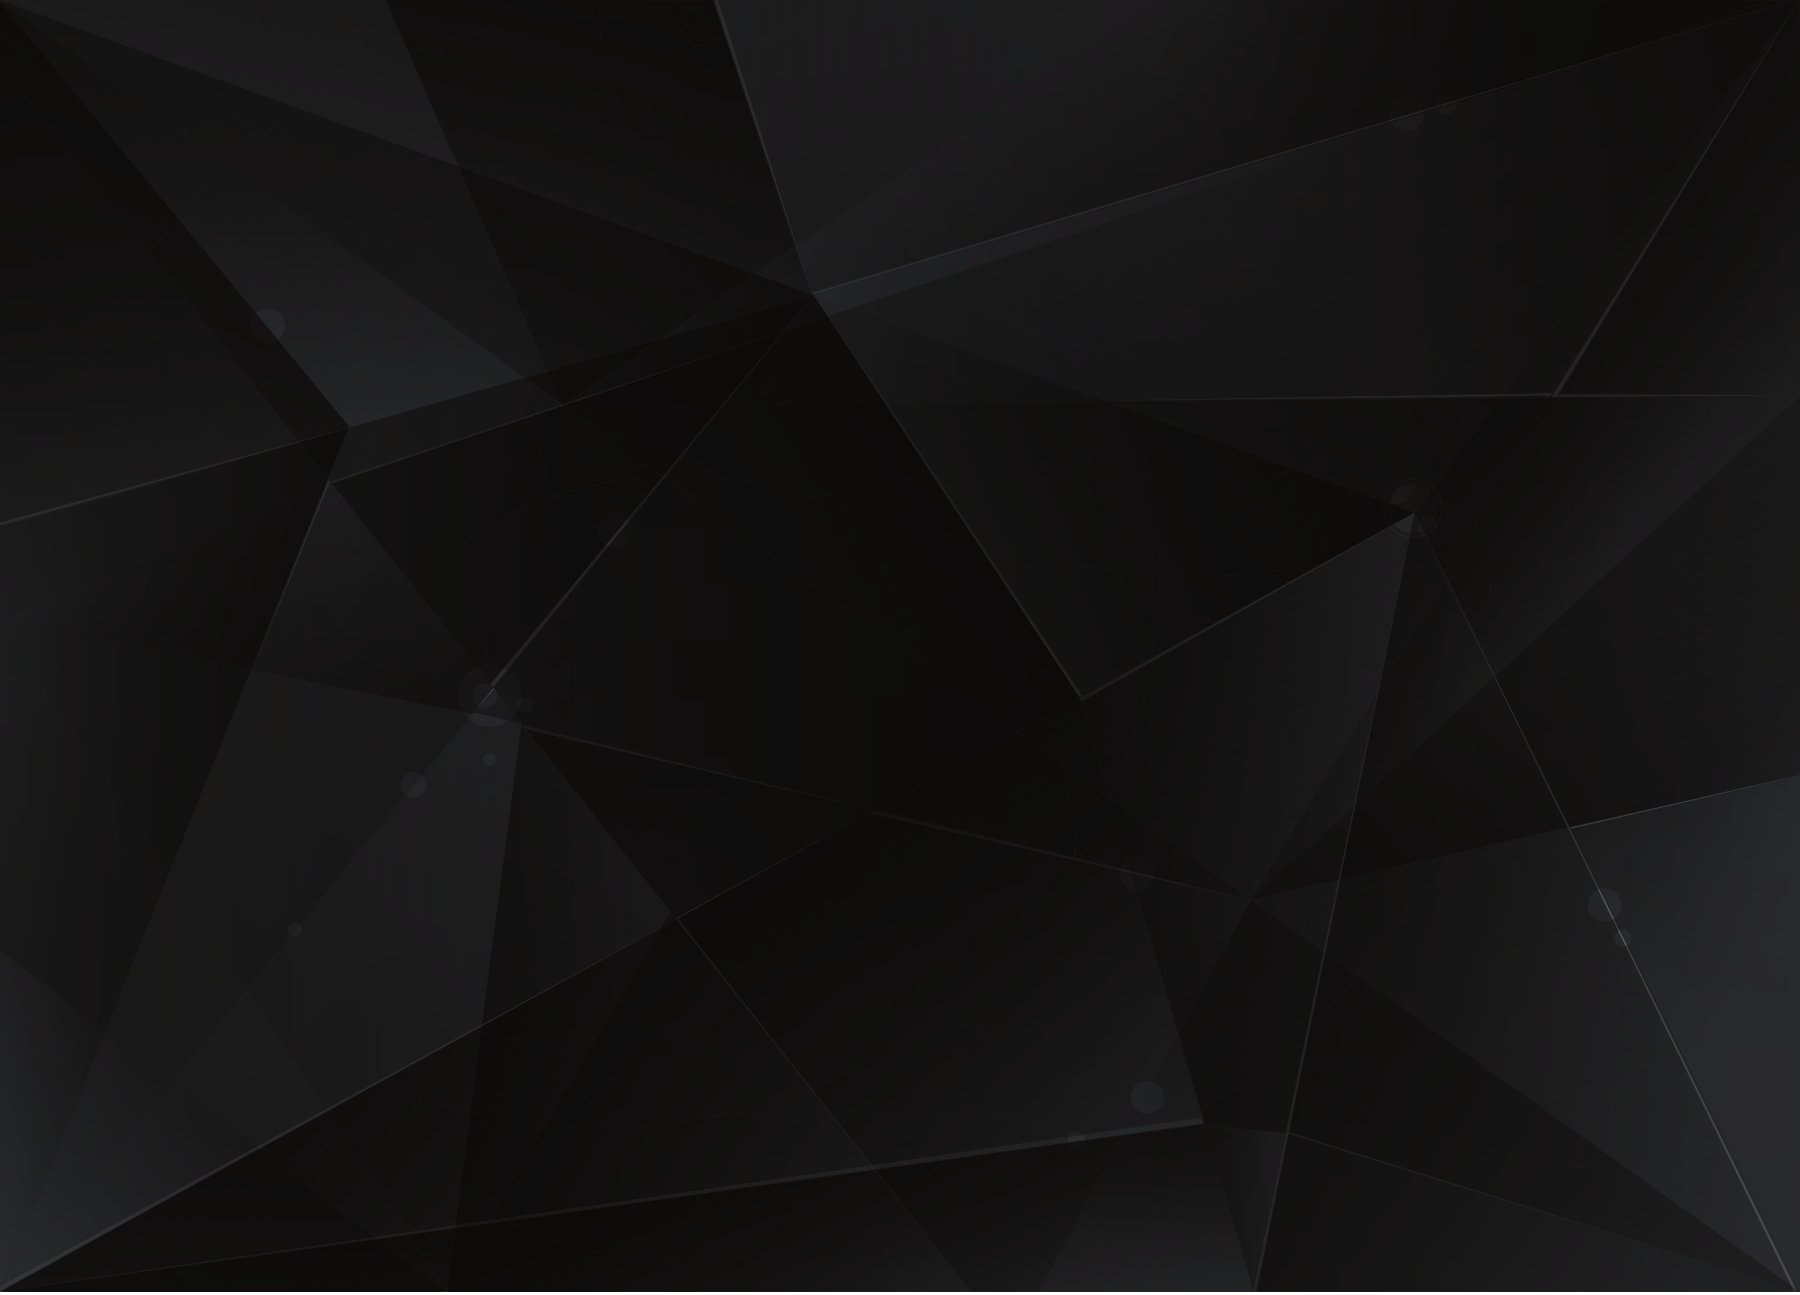
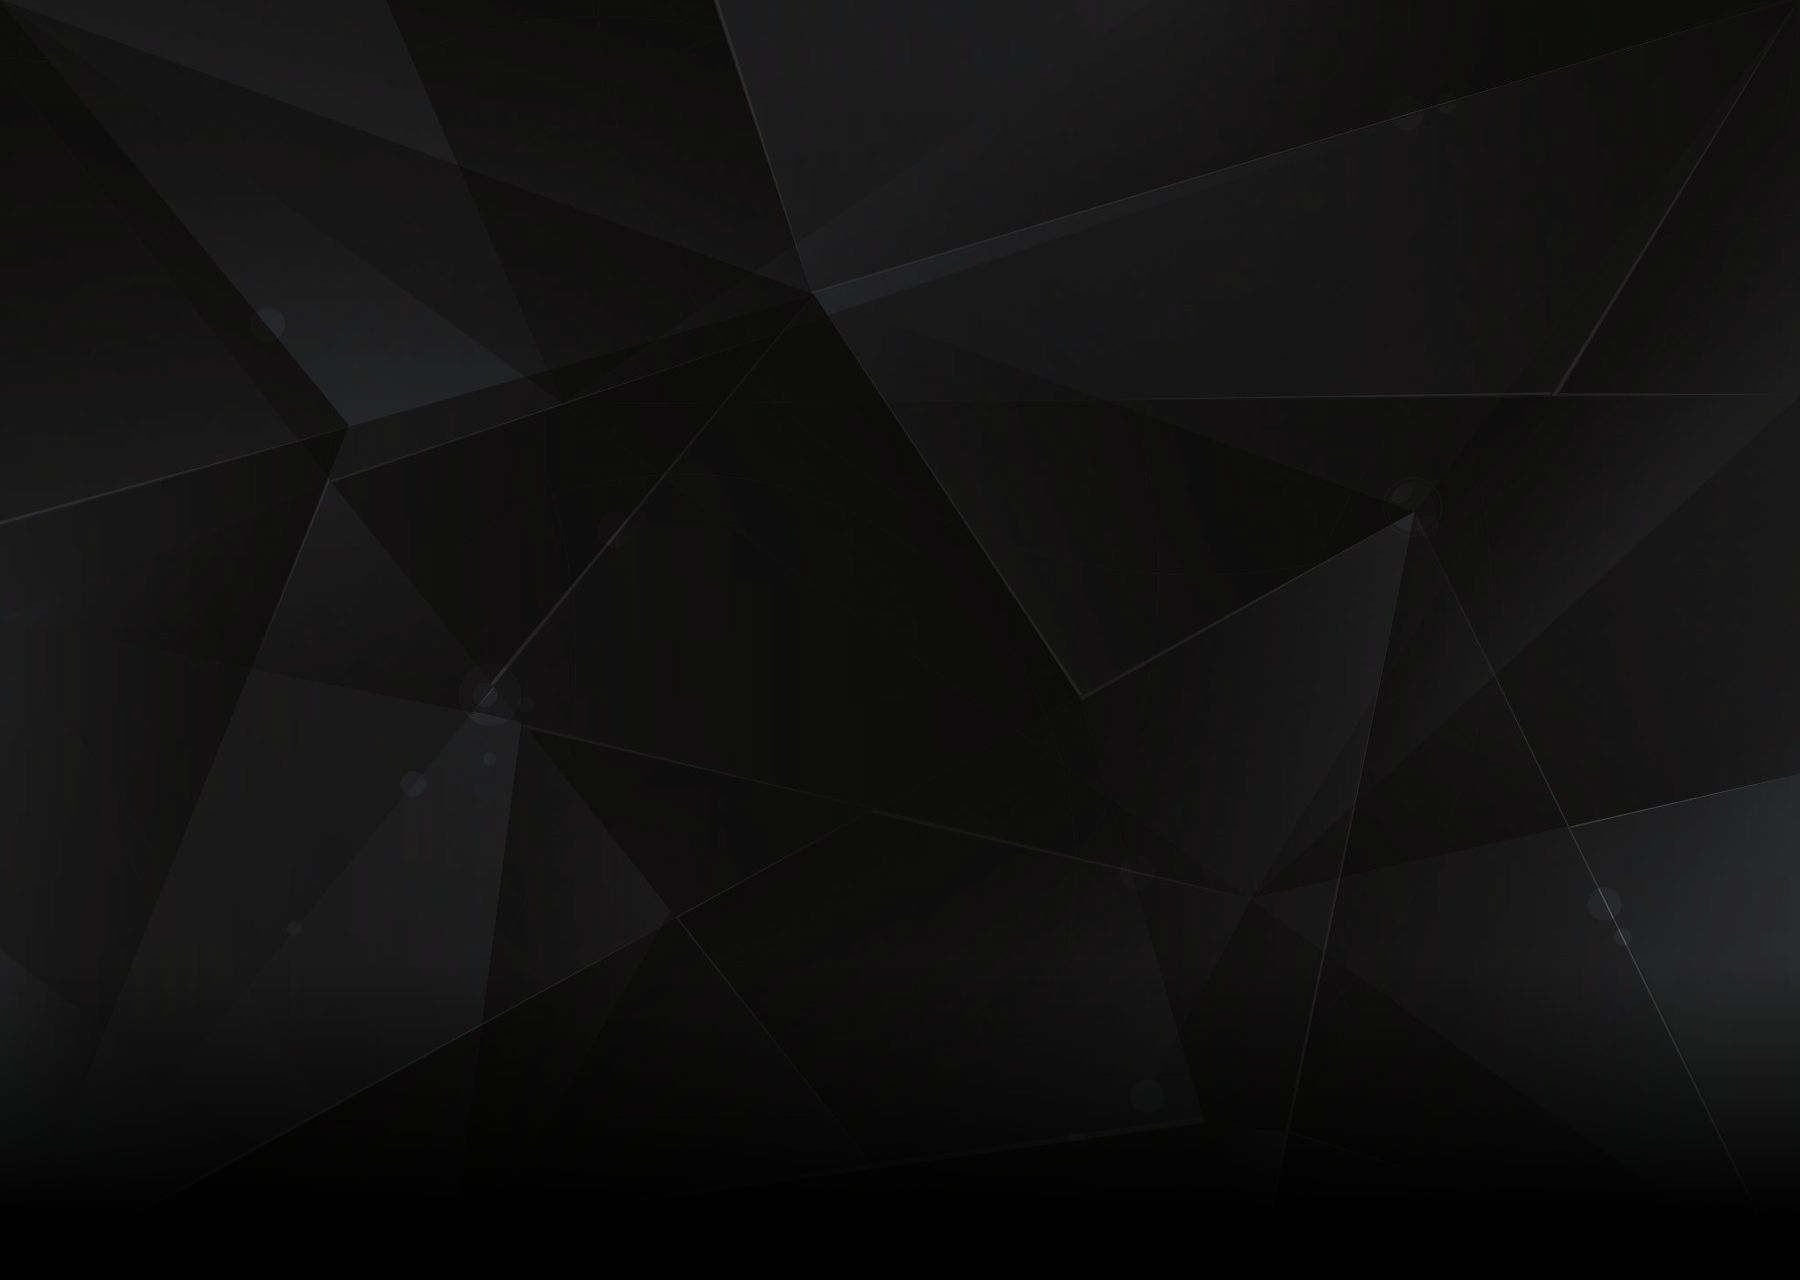
Homepage background gradient to black

diff --git a/www/css/cytube.less b/www/css/cytube.less
@@ -1032,7 +1032,7 @@ h4.sidebar-widget-title {
 
 .homepage {
     background: url(/img/home_bg_dark.jpg) top center no-repeat;
-    background-size: cover;
+    background-size: contain;
 }
 
 .homepage input.form-control[type="text"], .homepage input.form-control[type="password"] {
